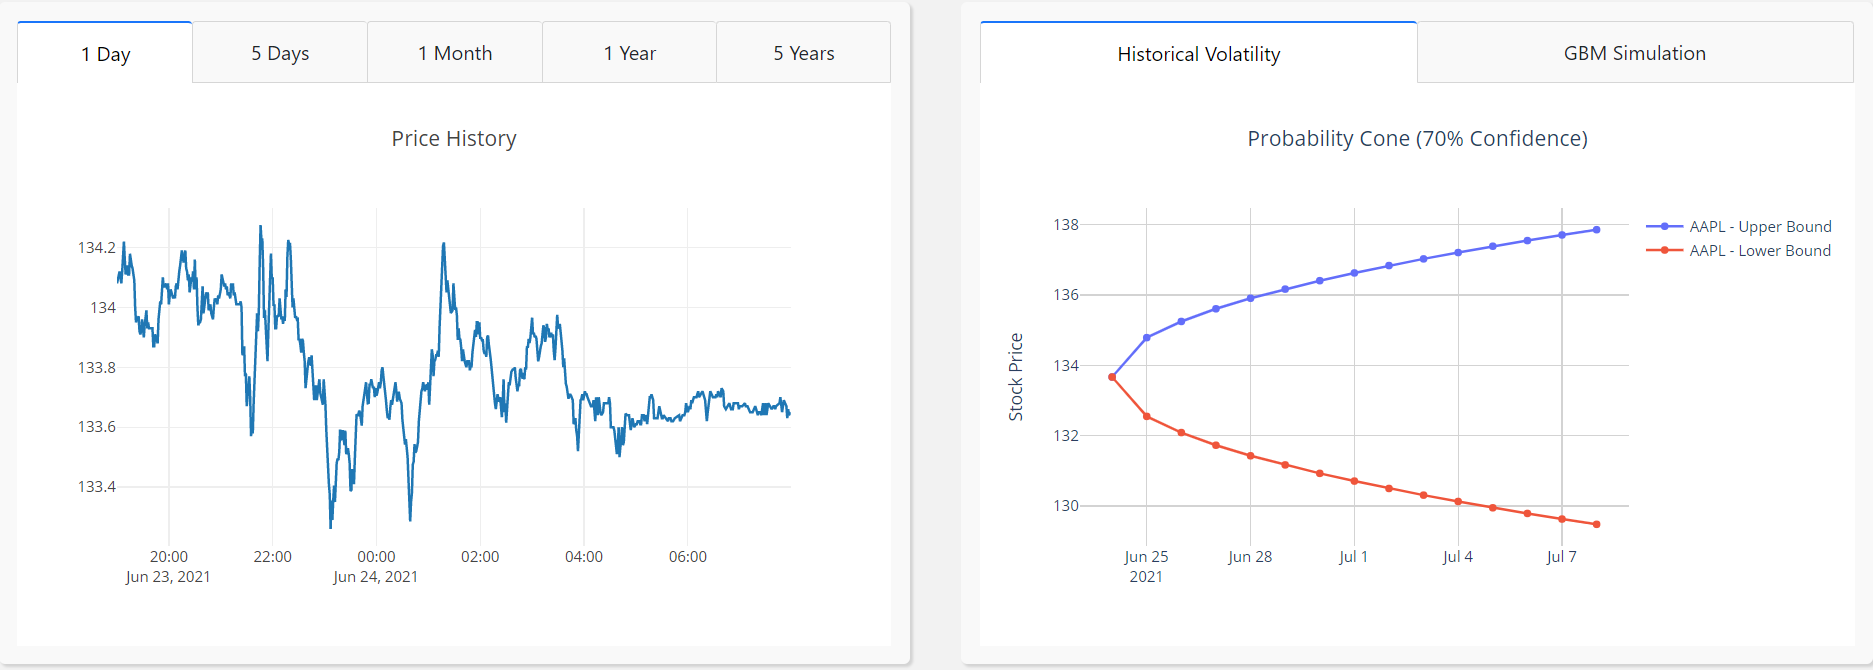
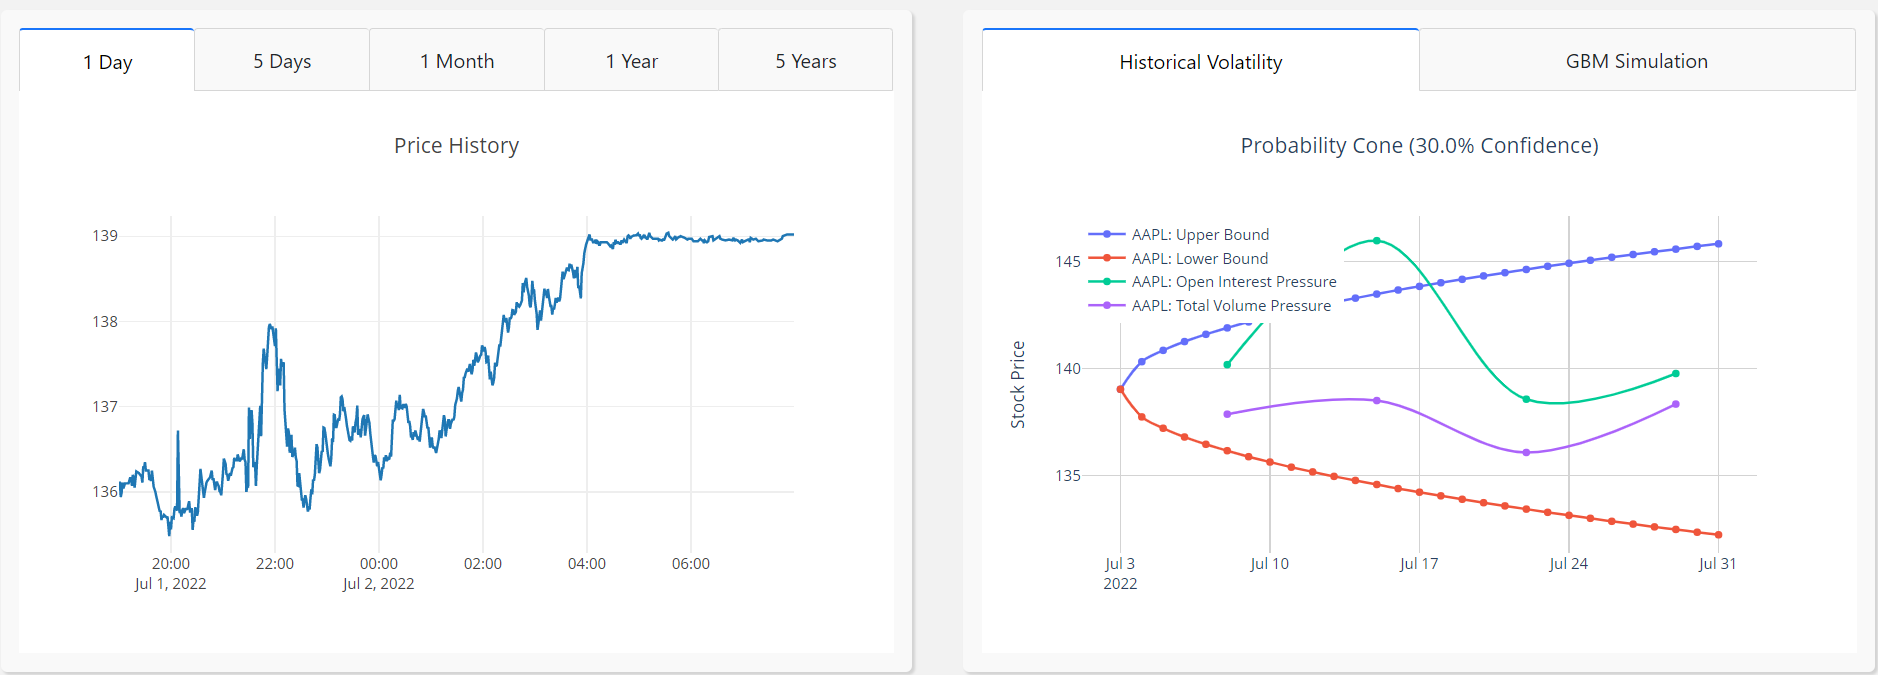
Updated README

diff --git a/README.md b/README.md
@@ -77,6 +77,7 @@ Filter options include:
    * Day(s) to Expiration: 0-100 days (Default: 0-14 days)
    * Confidence Level: (Default: 30% Confidence)
    * Historical Volatility Level: (Default: 1 Month)
+   * Volaility Estimator: (Default: Log Returns/Standard Deviation)
 
    To proceed with the search function, select on the **Submit** button.
 
@@ -86,7 +87,16 @@ Filter options include:
 
    ![step4-results](/doc_img/step4-results.png)
 
-5. The open interest and volume of the options chain is generated. Note: The options chain with expiry date closest to the 'Day(s) to Expiration' field is used (i.e. if option 0-14 days is selected, the graph will show the option chain with number of expiry days closest to 14)
+5. The open interest and volume of the options chain is generated with the rolling estimated volatilities using different estimators. Note: The options chain with expiry date closest to the 'Day(s) to Expiration' field is used before manual selection from the dropdown field (i.e. if option 0-14 days is selected, the graph will show the option chain with number of expiry days closest to 14 first)
+
+   * Standard Deviation: Using defintion of standard deviation to derive volatility
+   * Parkinson: The Parkinson model uses daily High and Low prices and has no drift term. Its efficiency intuitively comes from the fact that the price range of intraday gives more information regarding the future volatility than two arbitrary points in the series. It uses range the highest value –the lowest value variance instead of a widely used method for estimating variance of Log- transformed stock returns.
+   * Garman & Klass: The Garman & Klass volatility estimator which make use of daily Opening, Closing, High and Low prices of the stock. The estimator assumes the underlying process is govern by Brownian motion with zero drift and has no opening jump.
+   * Rogers & Satchell: Rogers & Satchell volatility estimator is independent of the drift  and Independent  of opening gaps  weighted average  is the Rogers-Satchell. The estimator makes use of the Open-Close volatility and Close-Open volatility. When the estimator is heavily dominated by opening jumps, its performance degrades to the classical Close-to-Close estimator
+   * Yang Zhang: Yang Zhang volatility estimator has the following properties:
+      1. Independent of the drift; 
+      2. Independent of opening gaps weighted average of Rogers-Satchell, Open-Close and Close-Open volatility; 
+      3. When heavily dominated by opening jumps, the performance degrades to classical Close-to-Close volatility estimator.  
 
    ![step5-results](/doc_img/step5-results.png)
 
@@ -96,3 +106,7 @@ Filter options include:
    * Call Skew: Defined as the price of 10% OTM calls/10% OTM puts for the next monthly option expiry.
 
    ![step6-results](/doc_img/step6-results.png)
+
+### Citiations
+1. Oyediran, Oyelami & Sambo, Eric. (2017). Comparative Analysis of Some Volatility Estimators: An Application to Historical Data from the Nigerian Stock Exchange Market. 4. 13-35.
+2. jasonstrimpel (2021) volatility-trading [Source Code]. https://github.com/jasonstrimpel/volatility-trading
